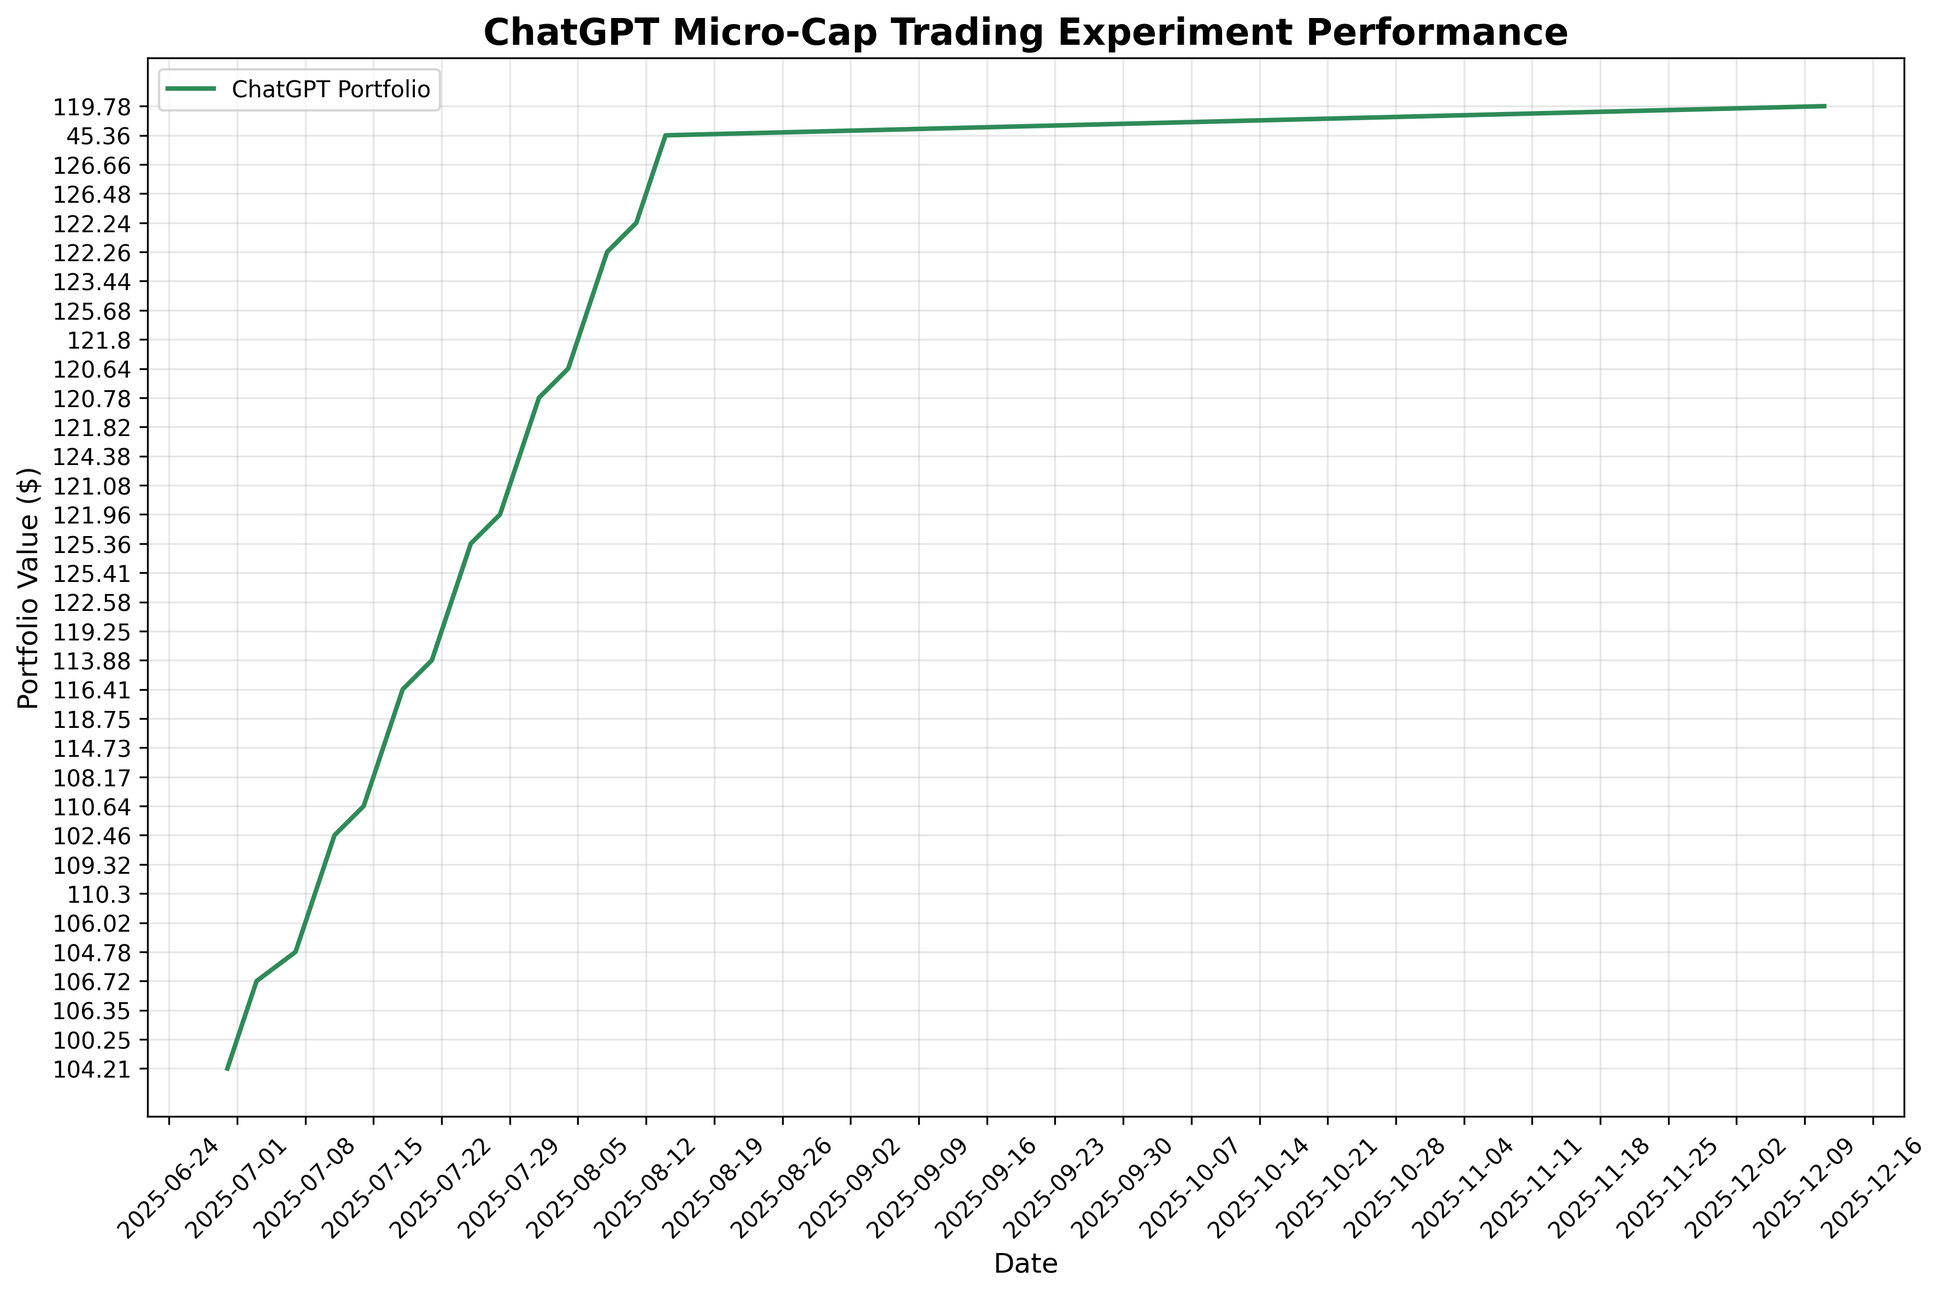
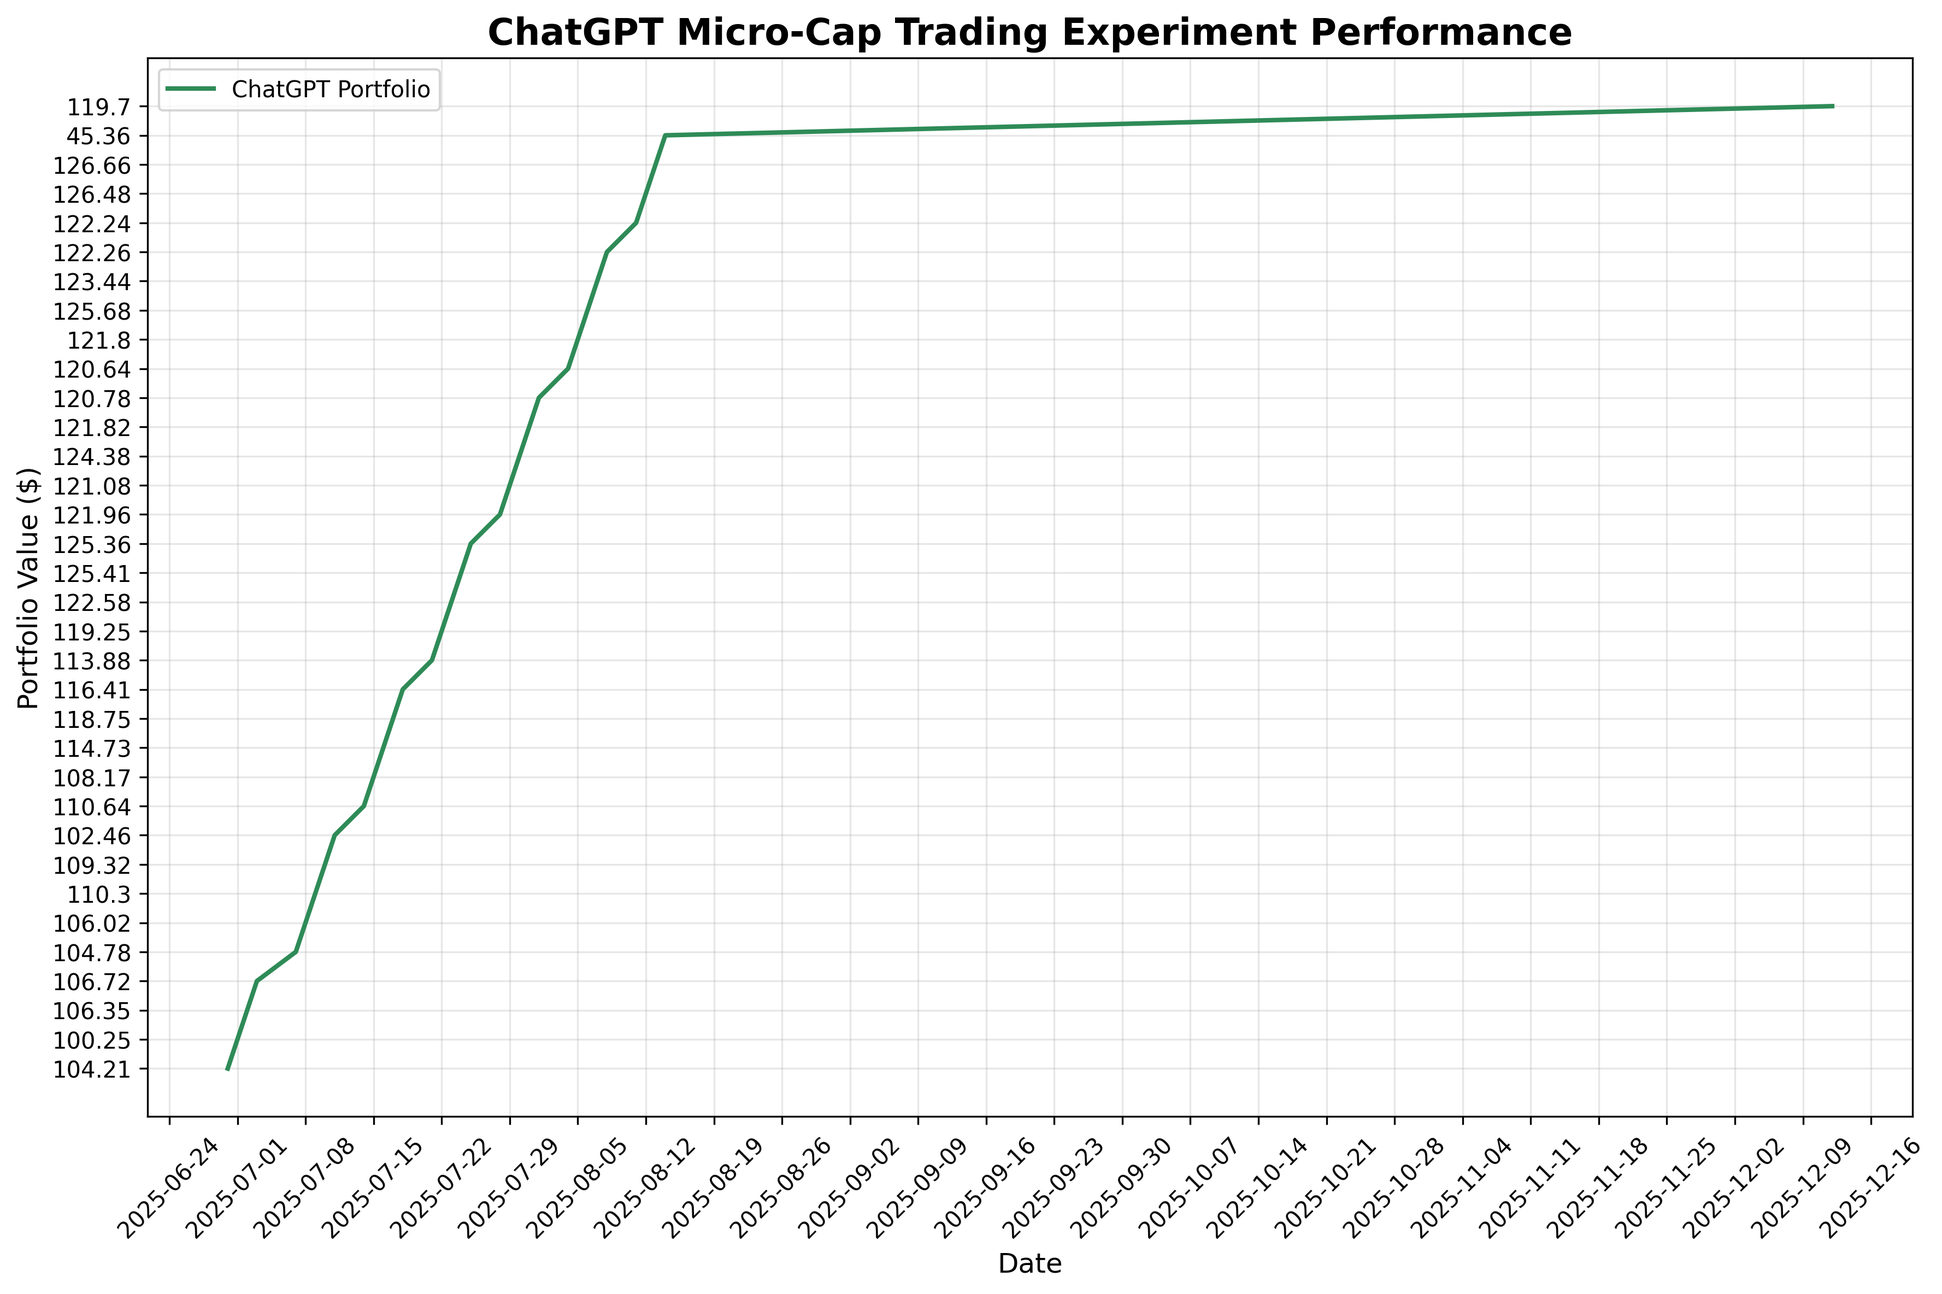
deploy: e15cad030d70fb3fbb51f9df6e22fa70c2f175c0

diff --git a/index.html b/index.html
@@ -105,7 +105,7 @@
                 <div class="stat-label">Total Trades</div>
             </div>
             <div class="stat-card">
-                <div class="stat-value" id="last-updated">2025-12-11</div>
+                <div class="stat-value" id="last-updated">2025-12-12</div>
                 <div class="stat-label">Last Updated</div>
             </div>
         </div>
@@ -160,7 +160,7 @@
     
     <script>
         // Portfolio data
-        const portfolioData = JSON.parse("[{&quot;Date&quot;: &quot;2025-08-11&quot;, &quot;Ticker&quot;: &quot;ABEO&quot;, &quot;Shares&quot;: 4.0, &quot;Buy Price&quot;: 5.77, &quot;Cost Basis&quot;: 23.08, &quot;Stop Loss&quot;: 4.9, &quot;Current Price&quot;: 6.28, &quot;Total Value&quot;: 25.12, &quot;PnL&quot;: 2.04, &quot;Action&quot;: &quot;HOLD&quot;, &quot;Cash Balance&quot;: NaN, &quot;Total Equity&quot;: NaN}, {&quot;Date&quot;: &quot;2025-08-11&quot;, &quot;Ticker&quot;: &quot;ACTU&quot;, &quot;Shares&quot;: 6.0, &quot;Buy Price&quot;: 5.75, &quot;Cost Basis&quot;: 34.5, &quot;Stop Loss&quot;: 4.89, &quot;Current Price&quot;: 8.01, &quot;Total Value&quot;: 48.06, &quot;PnL&quot;: 13.56, &quot;Action&quot;: &quot;HOLD&quot;, &quot;Cash Balance&quot;: NaN, &quot;Total Equity&quot;: NaN}, {&quot;Date&quot;: &quot;2025-08-11&quot;, &quot;Ticker&quot;: &quot;ESPR&quot;, &quot;Shares&quot;: 2.0, &quot;Buy Price&quot;: 1.91, &quot;Cost Basis&quot;: 3.82, &quot;Stop Loss&quot;: 1.6, &quot;Current Price&quot;: 1.85, &quot;Total Value&quot;: 3.7, &quot;PnL&quot;: -0.12, &quot;Action&quot;: &quot;HOLD&quot;, &quot;Cash Balance&quot;: NaN, &quot;Total Equity&quot;: NaN}, {&quot;Date&quot;: &quot;2025-08-11&quot;, &quot;Ticker&quot;: &quot;TOTAL&quot;, &quot;Shares&quot;: NaN, &quot;Buy Price&quot;: NaN, &quot;Cost Basis&quot;: NaN, &quot;Stop Loss&quot;: NaN, &quot;Current Price&quot;: NaN, &quot;Total Value&quot;: 76.88, &quot;PnL&quot;: 15.48, &quot;Action&quot;: NaN, &quot;Cash Balance&quot;: 45.36, &quot;Total Equity&quot;: &quot;122.24&quot;}, {&quot;Date&quot;: &quot;2025-08-12&quot;, &quot;Ticker&quot;: &quot;ABEO&quot;, &quot;Shares&quot;: 4.0, &quot;Buy Price&quot;: 5.77, &quot;Cost Basis&quot;: 23.08, &quot;Stop Loss&quot;: 4.9, &quot;Current Price&quot;: 6.38, &quot;Total Value&quot;: 25.52, &quot;PnL&quot;: 2.44, &quot;Action&quot;: &quot;HOLD&quot;, &quot;Cash Balance&quot;: NaN, &quot;Total Equity&quot;: NaN}, {&quot;Date&quot;: &quot;2025-08-12&quot;, &quot;Ticker&quot;: &quot;ACTU&quot;, &quot;Shares&quot;: 6.0, &quot;Buy Price&quot;: 5.75, &quot;Cost Basis&quot;: 34.5, &quot;Stop Loss&quot;: 4.89, &quot;Current Price&quot;: 8.67, &quot;Total Value&quot;: 52.02, &quot;PnL&quot;: 17.52, &quot;Action&quot;: &quot;HOLD&quot;, &quot;Cash Balance&quot;: NaN, &quot;Total Equity&quot;: NaN}, {&quot;Date&quot;: &quot;2025-08-12&quot;, &quot;Ticker&quot;: &quot;ESPR&quot;, &quot;Shares&quot;: 2.0, &quot;Buy Price&quot;: 1.91, &quot;Cost Basis&quot;: 3.82, &quot;Stop Loss&quot;: 1.6, &quot;Current Price&quot;: 1.79, &quot;Total Value&quot;: 3.58, &quot;PnL&quot;: -0.24, &quot;Action&quot;: &quot;HOLD&quot;, &quot;Cash Balance&quot;: NaN, &quot;Total Equity&quot;: NaN}, {&quot;Date&quot;: &quot;2025-08-12&quot;, &quot;Ticker&quot;: &quot;TOTAL&quot;, &quot;Shares&quot;: NaN, &quot;Buy Price&quot;: NaN, &quot;Cost Basis&quot;: NaN, &quot;Stop Loss&quot;: NaN, &quot;Current Price&quot;: NaN, &quot;Total Value&quot;: 81.12, &quot;PnL&quot;: 19.72, &quot;Action&quot;: NaN, &quot;Cash Balance&quot;: 45.36, &quot;Total Equity&quot;: &quot;126.48&quot;}, {&quot;Date&quot;: &quot;2025-08-13&quot;, &quot;Ticker&quot;: &quot;ABEO&quot;, &quot;Shares&quot;: 4.0, &quot;Buy Price&quot;: 5.77, &quot;Cost Basis&quot;: 23.08, &quot;Stop Loss&quot;: 4.9, &quot;Current Price&quot;: 6.56, &quot;Total Value&quot;: 26.24, &quot;PnL&quot;: 3.16, &quot;Action&quot;: &quot;HOLD&quot;, &quot;Cash Balance&quot;: NaN, &quot;Total Equity&quot;: NaN}, {&quot;Date&quot;: &quot;2025-08-13&quot;, &quot;Ticker&quot;: &quot;ACTU&quot;, &quot;Shares&quot;: 6.0, &quot;Buy Price&quot;: 5.75, &quot;Cost Basis&quot;: 34.5, &quot;Stop Loss&quot;: 4.89, &quot;Current Price&quot;: 8.53, &quot;Total Value&quot;: 51.18, &quot;PnL&quot;: 16.68, &quot;Action&quot;: &quot;HOLD&quot;, &quot;Cash Balance&quot;: NaN, &quot;Total Equity&quot;: NaN}, {&quot;Date&quot;: &quot;2025-08-13&quot;, &quot;Ticker&quot;: &quot;ESPR&quot;, &quot;Shares&quot;: 2.0, &quot;Buy Price&quot;: 1.91, &quot;Cost Basis&quot;: 3.82, &quot;Stop Loss&quot;: 1.6, &quot;Current Price&quot;: 1.94, &quot;Total Value&quot;: 3.88, &quot;PnL&quot;: 0.06, &quot;Action&quot;: &quot;HOLD&quot;, &quot;Cash Balance&quot;: NaN, &quot;Total Equity&quot;: NaN}, {&quot;Date&quot;: &quot;2025-08-13&quot;, &quot;Ticker&quot;: &quot;TOTAL&quot;, &quot;Shares&quot;: NaN, &quot;Buy Price&quot;: NaN, &quot;Cost Basis&quot;: NaN, &quot;Stop Loss&quot;: NaN, &quot;Current Price&quot;: NaN, &quot;Total Value&quot;: 81.3, &quot;PnL&quot;: 19.9, &quot;Action&quot;: NaN, &quot;Cash Balance&quot;: 45.36, &quot;Total Equity&quot;: &quot;126.66&quot;}, {&quot;Date&quot;: &quot;2025-08-14&quot;, &quot;Ticker&quot;: &quot;ABEO&quot;, &quot;Shares&quot;: 4.0, &quot;Buy Price&quot;: 5.77, &quot;Cost Basis&quot;: 23.08, &quot;Stop Loss&quot;: 4.9, &quot;Current Price&quot;: NaN, &quot;Total Value&quot;: NaN, &quot;PnL&quot;: NaN, &quot;Action&quot;: &quot;NO DATA&quot;, &quot;Cash Balance&quot;: NaN, &quot;Total Equity&quot;: NaN}, {&quot;Date&quot;: &quot;2025-08-14&quot;, &quot;Ticker&quot;: &quot;ACTU&quot;, &quot;Shares&quot;: 6.0, &quot;Buy Price&quot;: 5.75, &quot;Cost Basis&quot;: 34.5, &quot;Stop Loss&quot;: 4.89, &quot;Current Price&quot;: NaN, &quot;Total Value&quot;: NaN, &quot;PnL&quot;: NaN, &quot;Action&quot;: &quot;NO DATA&quot;, &quot;Cash Balance&quot;: NaN, &quot;Total Equity&quot;: NaN}, {&quot;Date&quot;: &quot;2025-08-14&quot;, &quot;Ticker&quot;: &quot;ESPR&quot;, &quot;Shares&quot;: 2.0, &quot;Buy Price&quot;: 1.91, &quot;Cost Basis&quot;: 3.82, &quot;Stop Loss&quot;: 1.6, &quot;Current Price&quot;: NaN, &quot;Total Value&quot;: NaN, &quot;PnL&quot;: NaN, &quot;Action&quot;: &quot;NO DATA&quot;, &quot;Cash Balance&quot;: NaN, &quot;Total Equity&quot;: NaN}, {&quot;Date&quot;: &quot;2025-08-14&quot;, &quot;Ticker&quot;: &quot;TOTAL&quot;, &quot;Shares&quot;: NaN, &quot;Buy Price&quot;: NaN, &quot;Cost Basis&quot;: NaN, &quot;Stop Loss&quot;: NaN, &quot;Current Price&quot;: NaN, &quot;Total Value&quot;: 0.0, &quot;PnL&quot;: 0.0, &quot;Action&quot;: NaN, &quot;Cash Balance&quot;: 45.36, &quot;Total Equity&quot;: &quot;45.36&quot;}, {&quot;Date&quot;: &quot;2025-12-11&quot;, &quot;Ticker&quot;: &quot;ABEO&quot;, &quot;Shares&quot;: 4.0, &quot;Buy Price&quot;: 5.77, &quot;Cost Basis&quot;: 23.08, &quot;Stop Loss&quot;: 4.9, &quot;Current Price&quot;: 5.52, &quot;Total Value&quot;: 22.08, &quot;PnL&quot;: -1.0, &quot;Action&quot;: &quot;HOLD&quot;, &quot;Cash Balance&quot;: NaN, &quot;Total Equity&quot;: NaN}, {&quot;Date&quot;: &quot;2025-12-11&quot;, &quot;Ticker&quot;: &quot;ACTU&quot;, &quot;Shares&quot;: 6.0, &quot;Buy Price&quot;: 5.75, &quot;Cost Basis&quot;: 34.5, &quot;Stop Loss&quot;: 4.89, &quot;Current Price&quot;: 7.43, &quot;Total Value&quot;: 44.58, &quot;PnL&quot;: 10.08, &quot;Action&quot;: &quot;HOLD&quot;, &quot;Cash Balance&quot;: NaN, &quot;Total Equity&quot;: NaN}, {&quot;Date&quot;: &quot;2025-12-11&quot;, &quot;Ticker&quot;: &quot;ESPR&quot;, &quot;Shares&quot;: 2.0, &quot;Buy Price&quot;: 1.91, &quot;Cost Basis&quot;: 3.82, &quot;Stop Loss&quot;: 1.6, &quot;Current Price&quot;: 3.88, &quot;Total Value&quot;: 7.76, &quot;PnL&quot;: 3.94, &quot;Action&quot;: &quot;HOLD&quot;, &quot;Cash Balance&quot;: NaN, &quot;Total Equity&quot;: NaN}, {&quot;Date&quot;: &quot;2025-12-11&quot;, &quot;Ticker&quot;: &quot;TOTAL&quot;, &quot;Shares&quot;: NaN, &quot;Buy Price&quot;: NaN, &quot;Cost Basis&quot;: NaN, &quot;Stop Loss&quot;: NaN, &quot;Current Price&quot;: NaN, &quot;Total Value&quot;: 74.42, &quot;PnL&quot;: 13.02, &quot;Action&quot;: NaN, &quot;Cash Balance&quot;: 45.36, &quot;Total Equity&quot;: &quot;119.78&quot;}]");
+        const portfolioData = JSON.parse("[{&quot;Date&quot;: &quot;2025-08-11&quot;, &quot;Ticker&quot;: &quot;ABEO&quot;, &quot;Shares&quot;: 4.0, &quot;Buy Price&quot;: 5.77, &quot;Cost Basis&quot;: 23.08, &quot;Stop Loss&quot;: 4.9, &quot;Current Price&quot;: 6.28, &quot;Total Value&quot;: 25.12, &quot;PnL&quot;: 2.04, &quot;Action&quot;: &quot;HOLD&quot;, &quot;Cash Balance&quot;: NaN, &quot;Total Equity&quot;: NaN}, {&quot;Date&quot;: &quot;2025-08-11&quot;, &quot;Ticker&quot;: &quot;ACTU&quot;, &quot;Shares&quot;: 6.0, &quot;Buy Price&quot;: 5.75, &quot;Cost Basis&quot;: 34.5, &quot;Stop Loss&quot;: 4.89, &quot;Current Price&quot;: 8.01, &quot;Total Value&quot;: 48.06, &quot;PnL&quot;: 13.56, &quot;Action&quot;: &quot;HOLD&quot;, &quot;Cash Balance&quot;: NaN, &quot;Total Equity&quot;: NaN}, {&quot;Date&quot;: &quot;2025-08-11&quot;, &quot;Ticker&quot;: &quot;ESPR&quot;, &quot;Shares&quot;: 2.0, &quot;Buy Price&quot;: 1.91, &quot;Cost Basis&quot;: 3.82, &quot;Stop Loss&quot;: 1.6, &quot;Current Price&quot;: 1.85, &quot;Total Value&quot;: 3.7, &quot;PnL&quot;: -0.12, &quot;Action&quot;: &quot;HOLD&quot;, &quot;Cash Balance&quot;: NaN, &quot;Total Equity&quot;: NaN}, {&quot;Date&quot;: &quot;2025-08-11&quot;, &quot;Ticker&quot;: &quot;TOTAL&quot;, &quot;Shares&quot;: NaN, &quot;Buy Price&quot;: NaN, &quot;Cost Basis&quot;: NaN, &quot;Stop Loss&quot;: NaN, &quot;Current Price&quot;: NaN, &quot;Total Value&quot;: 76.88, &quot;PnL&quot;: 15.48, &quot;Action&quot;: NaN, &quot;Cash Balance&quot;: 45.36, &quot;Total Equity&quot;: &quot;122.24&quot;}, {&quot;Date&quot;: &quot;2025-08-12&quot;, &quot;Ticker&quot;: &quot;ABEO&quot;, &quot;Shares&quot;: 4.0, &quot;Buy Price&quot;: 5.77, &quot;Cost Basis&quot;: 23.08, &quot;Stop Loss&quot;: 4.9, &quot;Current Price&quot;: 6.38, &quot;Total Value&quot;: 25.52, &quot;PnL&quot;: 2.44, &quot;Action&quot;: &quot;HOLD&quot;, &quot;Cash Balance&quot;: NaN, &quot;Total Equity&quot;: NaN}, {&quot;Date&quot;: &quot;2025-08-12&quot;, &quot;Ticker&quot;: &quot;ACTU&quot;, &quot;Shares&quot;: 6.0, &quot;Buy Price&quot;: 5.75, &quot;Cost Basis&quot;: 34.5, &quot;Stop Loss&quot;: 4.89, &quot;Current Price&quot;: 8.67, &quot;Total Value&quot;: 52.02, &quot;PnL&quot;: 17.52, &quot;Action&quot;: &quot;HOLD&quot;, &quot;Cash Balance&quot;: NaN, &quot;Total Equity&quot;: NaN}, {&quot;Date&quot;: &quot;2025-08-12&quot;, &quot;Ticker&quot;: &quot;ESPR&quot;, &quot;Shares&quot;: 2.0, &quot;Buy Price&quot;: 1.91, &quot;Cost Basis&quot;: 3.82, &quot;Stop Loss&quot;: 1.6, &quot;Current Price&quot;: 1.79, &quot;Total Value&quot;: 3.58, &quot;PnL&quot;: -0.24, &quot;Action&quot;: &quot;HOLD&quot;, &quot;Cash Balance&quot;: NaN, &quot;Total Equity&quot;: NaN}, {&quot;Date&quot;: &quot;2025-08-12&quot;, &quot;Ticker&quot;: &quot;TOTAL&quot;, &quot;Shares&quot;: NaN, &quot;Buy Price&quot;: NaN, &quot;Cost Basis&quot;: NaN, &quot;Stop Loss&quot;: NaN, &quot;Current Price&quot;: NaN, &quot;Total Value&quot;: 81.12, &quot;PnL&quot;: 19.72, &quot;Action&quot;: NaN, &quot;Cash Balance&quot;: 45.36, &quot;Total Equity&quot;: &quot;126.48&quot;}, {&quot;Date&quot;: &quot;2025-08-13&quot;, &quot;Ticker&quot;: &quot;ABEO&quot;, &quot;Shares&quot;: 4.0, &quot;Buy Price&quot;: 5.77, &quot;Cost Basis&quot;: 23.08, &quot;Stop Loss&quot;: 4.9, &quot;Current Price&quot;: 6.56, &quot;Total Value&quot;: 26.24, &quot;PnL&quot;: 3.16, &quot;Action&quot;: &quot;HOLD&quot;, &quot;Cash Balance&quot;: NaN, &quot;Total Equity&quot;: NaN}, {&quot;Date&quot;: &quot;2025-08-13&quot;, &quot;Ticker&quot;: &quot;ACTU&quot;, &quot;Shares&quot;: 6.0, &quot;Buy Price&quot;: 5.75, &quot;Cost Basis&quot;: 34.5, &quot;Stop Loss&quot;: 4.89, &quot;Current Price&quot;: 8.53, &quot;Total Value&quot;: 51.18, &quot;PnL&quot;: 16.68, &quot;Action&quot;: &quot;HOLD&quot;, &quot;Cash Balance&quot;: NaN, &quot;Total Equity&quot;: NaN}, {&quot;Date&quot;: &quot;2025-08-13&quot;, &quot;Ticker&quot;: &quot;ESPR&quot;, &quot;Shares&quot;: 2.0, &quot;Buy Price&quot;: 1.91, &quot;Cost Basis&quot;: 3.82, &quot;Stop Loss&quot;: 1.6, &quot;Current Price&quot;: 1.94, &quot;Total Value&quot;: 3.88, &quot;PnL&quot;: 0.06, &quot;Action&quot;: &quot;HOLD&quot;, &quot;Cash Balance&quot;: NaN, &quot;Total Equity&quot;: NaN}, {&quot;Date&quot;: &quot;2025-08-13&quot;, &quot;Ticker&quot;: &quot;TOTAL&quot;, &quot;Shares&quot;: NaN, &quot;Buy Price&quot;: NaN, &quot;Cost Basis&quot;: NaN, &quot;Stop Loss&quot;: NaN, &quot;Current Price&quot;: NaN, &quot;Total Value&quot;: 81.3, &quot;PnL&quot;: 19.9, &quot;Action&quot;: NaN, &quot;Cash Balance&quot;: 45.36, &quot;Total Equity&quot;: &quot;126.66&quot;}, {&quot;Date&quot;: &quot;2025-08-14&quot;, &quot;Ticker&quot;: &quot;ABEO&quot;, &quot;Shares&quot;: 4.0, &quot;Buy Price&quot;: 5.77, &quot;Cost Basis&quot;: 23.08, &quot;Stop Loss&quot;: 4.9, &quot;Current Price&quot;: NaN, &quot;Total Value&quot;: NaN, &quot;PnL&quot;: NaN, &quot;Action&quot;: &quot;NO DATA&quot;, &quot;Cash Balance&quot;: NaN, &quot;Total Equity&quot;: NaN}, {&quot;Date&quot;: &quot;2025-08-14&quot;, &quot;Ticker&quot;: &quot;ACTU&quot;, &quot;Shares&quot;: 6.0, &quot;Buy Price&quot;: 5.75, &quot;Cost Basis&quot;: 34.5, &quot;Stop Loss&quot;: 4.89, &quot;Current Price&quot;: NaN, &quot;Total Value&quot;: NaN, &quot;PnL&quot;: NaN, &quot;Action&quot;: &quot;NO DATA&quot;, &quot;Cash Balance&quot;: NaN, &quot;Total Equity&quot;: NaN}, {&quot;Date&quot;: &quot;2025-08-14&quot;, &quot;Ticker&quot;: &quot;ESPR&quot;, &quot;Shares&quot;: 2.0, &quot;Buy Price&quot;: 1.91, &quot;Cost Basis&quot;: 3.82, &quot;Stop Loss&quot;: 1.6, &quot;Current Price&quot;: NaN, &quot;Total Value&quot;: NaN, &quot;PnL&quot;: NaN, &quot;Action&quot;: &quot;NO DATA&quot;, &quot;Cash Balance&quot;: NaN, &quot;Total Equity&quot;: NaN}, {&quot;Date&quot;: &quot;2025-08-14&quot;, &quot;Ticker&quot;: &quot;TOTAL&quot;, &quot;Shares&quot;: NaN, &quot;Buy Price&quot;: NaN, &quot;Cost Basis&quot;: NaN, &quot;Stop Loss&quot;: NaN, &quot;Current Price&quot;: NaN, &quot;Total Value&quot;: 0.0, &quot;PnL&quot;: 0.0, &quot;Action&quot;: NaN, &quot;Cash Balance&quot;: 45.36, &quot;Total Equity&quot;: &quot;45.36&quot;}, {&quot;Date&quot;: &quot;2025-12-12&quot;, &quot;Ticker&quot;: &quot;ABEO&quot;, &quot;Shares&quot;: 4.0, &quot;Buy Price&quot;: 5.77, &quot;Cost Basis&quot;: 23.08, &quot;Stop Loss&quot;: 4.9, &quot;Current Price&quot;: 5.47, &quot;Total Value&quot;: 21.88, &quot;PnL&quot;: -1.2, &quot;Action&quot;: &quot;HOLD&quot;, &quot;Cash Balance&quot;: NaN, &quot;Total Equity&quot;: NaN}, {&quot;Date&quot;: &quot;2025-12-12&quot;, &quot;Ticker&quot;: &quot;ACTU&quot;, &quot;Shares&quot;: 6.0, &quot;Buy Price&quot;: 5.75, &quot;Cost Basis&quot;: 34.5, &quot;Stop Loss&quot;: 4.89, &quot;Current Price&quot;: 7.38, &quot;Total Value&quot;: 44.28, &quot;PnL&quot;: 9.78, &quot;Action&quot;: &quot;HOLD&quot;, &quot;Cash Balance&quot;: NaN, &quot;Total Equity&quot;: NaN}, {&quot;Date&quot;: &quot;2025-12-12&quot;, &quot;Ticker&quot;: &quot;ESPR&quot;, &quot;Shares&quot;: 2.0, &quot;Buy Price&quot;: 1.91, &quot;Cost Basis&quot;: 3.82, &quot;Stop Loss&quot;: 1.6, &quot;Current Price&quot;: 4.09, &quot;Total Value&quot;: 8.18, &quot;PnL&quot;: 4.36, &quot;Action&quot;: &quot;HOLD&quot;, &quot;Cash Balance&quot;: NaN, &quot;Total Equity&quot;: NaN}, {&quot;Date&quot;: &quot;2025-12-12&quot;, &quot;Ticker&quot;: &quot;TOTAL&quot;, &quot;Shares&quot;: NaN, &quot;Buy Price&quot;: NaN, &quot;Cost Basis&quot;: NaN, &quot;Stop Loss&quot;: NaN, &quot;Current Price&quot;: NaN, &quot;Total Value&quot;: 74.34, &quot;PnL&quot;: 12.94, &quot;Action&quot;: NaN, &quot;Cash Balance&quot;: 45.36, &quot;Total Equity&quot;: &quot;119.7&quot;}]");
         const tradeData = JSON.parse("[{&quot;Date&quot;: &quot;2025-07-07&quot;, &quot;Ticker&quot;: &quot;CSAI&quot;, &quot;Shares Bought&quot;: NaN, &quot;Buy Price&quot;: NaN, &quot;Cost Basis&quot;: 1.9, &quot;PnL&quot;: 5.7, &quot;Reason&quot;: &quot;MANUAL SELL - Rotated into AZTR&quot;, &quot;Shares Sold&quot;: 15.0, &quot;Sell Price&quot;: 2.28}, {&quot;Date&quot;: &quot;2025-07-08&quot;, &quot;Ticker&quot;: &quot;IINN&quot;, &quot;Shares Bought&quot;: 20.0, &quot;Buy Price&quot;: 1.5, &quot;Cost Basis&quot;: 30.0, &quot;PnL&quot;: 0.0, &quot;Reason&quot;: &quot;MANUAL BUY - New position&quot;, &quot;Shares Sold&quot;: NaN, &quot;Sell Price&quot;: NaN}, {&quot;Date&quot;: &quot;2025-07-21&quot;, &quot;Ticker&quot;: &quot;CADL&quot;, &quot;Shares Bought&quot;: NaN, &quot;Buy Price&quot;: NaN, &quot;Cost Basis&quot;: 25.2, &quot;PnL&quot;: 8.5, &quot;Reason&quot;: &quot;MANUAL SELL - GAIN CAPITAL FOR ACTU&quot;, &quot;Shares Sold&quot;: 5.0, &quot;Sell Price&quot;: 6.59}, {&quot;Date&quot;: &quot;2025-07-21&quot;, &quot;Ticker&quot;: &quot;ACTU&quot;, &quot;Shares Bought&quot;: 6.0, &quot;Buy Price&quot;: 5.75, &quot;Cost Basis&quot;: 34.5, &quot;PnL&quot;: 0.0, &quot;Reason&quot;: &quot;MANUAL BUY - New position&quot;, &quot;Shares Sold&quot;: NaN, &quot;Sell Price&quot;: NaN}, {&quot;Date&quot;: &quot;2025-07-28&quot;, &quot;Ticker&quot;: &quot;IINN&quot;, &quot;Shares Bought&quot;: NaN, &quot;Buy Price&quot;: NaN, &quot;Cost Basis&quot;: 9.0, &quot;PnL&quot;: -0.5400000000000009, &quot;Reason&quot;: &quot;MANUAL SELL - POSITION REDUCTION&quot;, &quot;Shares Sold&quot;: 6.0, &quot;Sell Price&quot;: 1.41}, {&quot;Date&quot;: &quot;2025-07-29&quot;, &quot;Ticker&quot;: &quot;AZTR&quot;, &quot;Shares Bought&quot;: NaN, &quot;Buy Price&quot;: NaN, &quot;Cost Basis&quot;: 13.75, &quot;PnL&quot;: -2.75, &quot;Reason&quot;: &quot;MANUAL SELL - DILUTION RISK&quot;, &quot;Shares Sold&quot;: 55.0, &quot;Sell Price&quot;: 0.2}, {&quot;Date&quot;: &quot;2025-08-01&quot;, &quot;Ticker&quot;: &quot;IINN&quot;, &quot;Shares Bought&quot;: 2.0, &quot;Buy Price&quot;: 1.74, &quot;Cost Basis&quot;: 3.48, &quot;PnL&quot;: 0.0, &quot;Reason&quot;: &quot;MANUAL BUY - New position&quot;, &quot;Shares Sold&quot;: NaN, &quot;Sell Price&quot;: NaN}, {&quot;Date&quot;: &quot;2025-08-01&quot;, &quot;Ticker&quot;: &quot;ABEO&quot;, &quot;Shares Bought&quot;: NaN, &quot;Buy Price&quot;: NaN, &quot;Cost Basis&quot;: 11.54, &quot;PnL&quot;: 1.200000000000001, &quot;Reason&quot;: &quot;MANUAL SELL - TRIM AFTER SUPPORT LOSS&quot;, &quot;Shares Sold&quot;: 2.0, &quot;Sell Price&quot;: 6.37}, {&quot;Date&quot;: &quot;2025-08-07&quot;, &quot;Ticker&quot;: &quot;ESPR&quot;, &quot;Shares Bought&quot;: 2.0, &quot;Buy Price&quot;: 1.91, &quot;Cost Basis&quot;: 3.82, &quot;PnL&quot;: 0.0, &quot;Reason&quot;: &quot;MANUAL BUY - New position&quot;, &quot;Shares Sold&quot;: NaN, &quot;Sell Price&quot;: NaN}, {&quot;Date&quot;: &quot;2025-08-08&quot;, &quot;Ticker&quot;: &quot;IINN&quot;, &quot;Shares Bought&quot;: NaN, &quot;Buy Price&quot;: NaN, &quot;Cost Basis&quot;: 1.5, &quot;PnL&quot;: -6.4, &quot;Reason&quot;: &quot;AUTOMATED SELL - STOPLOSS TRIGGERED&quot;, &quot;Shares Sold&quot;: 16.0, &quot;Sell Price&quot;: 1.1}]");
         
         // Update total equity
